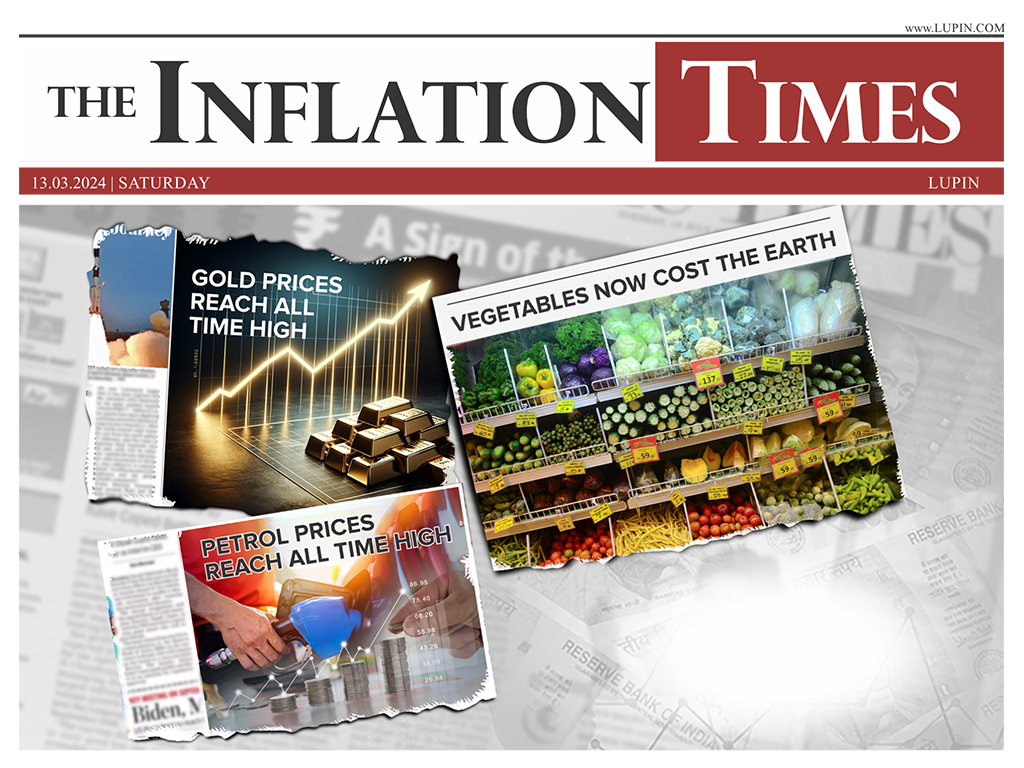
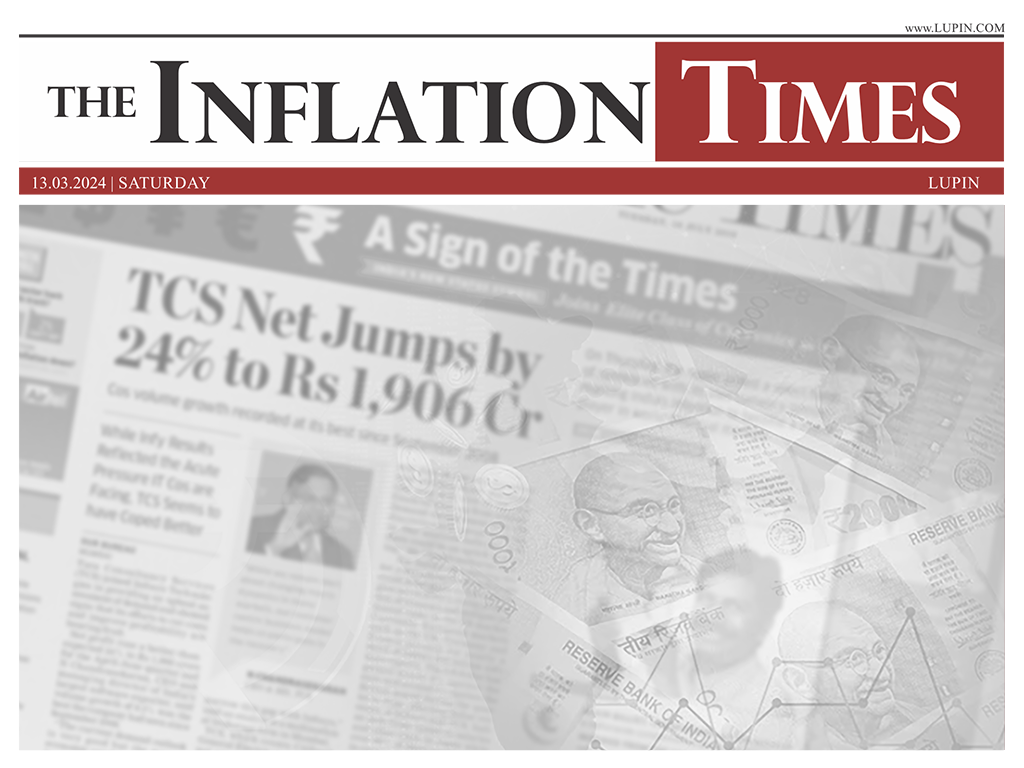
Update

diff --git a/slide1/slide1.css b/slide1/slide1.css
@@ -12,47 +12,47 @@
 
 .s1_2 {
 	position: absolute;
-  left: 632px;
-  top: 583px;
-  width: 278px;
-  height: 148px;
-	animation: zoomIn 0.7s;
-	animation-delay: 0.1s;
+  left: 83px;
+  top: 220px;
+  width: 382px;
+  height: 311px;
+	animation: rotateIn 0.5s;
+	animation-delay: 0.2s;
 	animation-fill-mode: both;
 	z-index: 5;
 }
 
 .s1_3 {
 	position: absolute;
-  left: 620px;
-  top: 619px;
-  width: 301px;
-  height: 72px;
-	animation: zoomIn 0.7s;
-	animation-delay: 0.2s;
+  left: 423px;
+  top: 202px;
+  width: 484px;
+  height: 379px;
+	animation: rotateIn 0.5s;
+	animation-delay: 0.6s;
 	animation-fill-mode: both;
 	z-index: 5;
 }
 
 .s1_4 {
 	position: absolute;
-  left: 534px;
-  top: 586px;
-  width: 181px;
-  height: 67px;
-	animation: fadeInUp 0.7s;
-	animation-delay: 1.4s;
+  left: 99px;
+  top: 481px;
+  width: 399px;
+  height: 263px;
+	animation: rotateIn 0.5s;
+	animation-delay: 1s;
 	animation-fill-mode: both;
 	z-index: 5;
 }
 
 .s1_5 {
 	position: absolute;
-  left: 761px;
-  top: 588px;
-  width: 179px;
-  height: 65px;
-	animation: fadeInUp 0.7s;
+  left: 632px;
+  top: 583px;
+  width: 278px;
+  height: 148px;
+	animation: zoomIn 0.4s;
 	animation-delay: 2s;
 	animation-fill-mode: both;
 	z-index: 5;
@@ -60,161 +60,27 @@
 
 .s1_6 {
 	position: absolute;
-  left: 252px;
-  top: 446px;
-  width: 173px;
-  height: 108px;
-	animation: fadeInDownSmall 0.5s;
-	animation-delay: 1.4s;
-	animation-fill-mode: both;
-	z-index: 5;
-}
-
-.s1_7 {
-	position: absolute;
-  left: 465px;
-  top: 272px;
-  width: 155px;
-  height: 155px;
-	animation: bounceIn 0.3s;
-	animation-delay: 1.8s;
-	animation-fill-mode: both;
-	z-index: 5;
-}
-
-.s1_8 {
-	position: absolute;
-  left: 488px;
-  top: 446px;
-  width: 109px;
-  height: 85px;
-	animation: fadeInDownSmall 0.5s;
-	animation-delay: 2.2s;
-	animation-fill-mode: both;
-	z-index: 5;
-}
-
-.s1_9 {
-	position: absolute;
-  left: 660px;
-  top: 272px;
-  width: 155px;
-  height: 155px;
-	animation: bounceIn 0.3s;
-	animation-delay: 2.6s;
-	animation-fill-mode: both;
-	z-index: 5;
-}
-
-.s1_10 {
-	position: absolute;
-  left: 682px;
-  top: 446px;
-  width: 118px;
-  height: 78px;
-	animation: fadeInDownSmall 0.5s;
-	animation-delay: 3s;
-	animation-fill-mode: both;
-	z-index: 5;
-}
-
-.s1_11 {
-	position: absolute;
-  left: 856px;
-  top: 272px;
-  width: 155px;
-  height: 155px;
-	animation: bounceIn 0.3s;
-	animation-delay: 3.4s;
-	animation-fill-mode: both;
-	z-index: 5;
-}
-
-.s1_12 {
-	position: absolute;
-  left: 871px;
-  top: 446px;
-  width: 125px;
-  height: 109px;
-	animation: fadeInDownSmall 0.5s;
-	animation-delay: 3.8s;
-	animation-fill-mode: both;
-	z-index: 5;
-}
-
-.s1_13 {
-	position: absolute;
-  left: 1051px;
-  top: 272px;
-  width: 155px;
-  height: 155px;
-	animation: bounceIn 0.3s;
-	animation-delay: 4.2s;
-	animation-fill-mode: both;
-	z-index: 5;
-}
-
-.s1_14 {
-	position: absolute;
-  left: 1060px;
-  top: 446px;
-  width: 145px;
-  height: 80px;
-	animation: fadeInDownSmall 0.5s;
-	animation-delay: 4.6s;
+  left: 620px;
+  top: 619px;
+  width: 301px;
+  height: 72px;
+	animation: zoomIn 0.3s;
+	animation-delay: 2.1s;
 	animation-fill-mode: both;
 	z-index: 5;
 }
 
 
-@keyframes flashLong {
-  0%,  100% {
+@keyframes rotateIn {
+  from {
+    -webkit-transform: rotate3d(0, 0, 1, -200deg);
+    transform: rotate3d(0, 0, 1, -200deg) scale(0.3);
     opacity: 0;
   }
 
-  25%, 50%, 75% {
+  to {
+    -webkit-transform: translate3d(0, 0, 0);
+    transform: translate3d(0, 0, 0) scale(1);
     opacity: 1;
-  }
-}
-
-
-@-webkit-keyframes fadeInDownSmall {
-  0% {
-    opacity: 0;
-    -webkit-transform: translate3d(0, -25%, 0);
-    transform: translate3d(0, -25%, 0);
-  }
-
-  100% {
-    opacity: 1;
-    -webkit-transform: none;
-    transform: none;
-  }
-}
-
-
-@keyframes zoomInLight {
-  0% {
-    opacity: 0;
-    -webkit-transform: scale3d(.3, .3, .3);
-    transform: scale3d(.3, .3, .3);
-  }
-
-  50% {
-    opacity: 0.6;
-  }
-}
-
-@keyframes fadeInDownSmall {
-  0% {
-    opacity: 0;
-    -webkit-transform: translate3d(0, -25%, 0);
-    transform: translate3d(0, -25%, 0);
-  }
-
-  100% {
-    opacity: 1;
-    -webkit-transform: none;
-    transform: none;
   }
 }

diff --git a/global.js b/global.js
@@ -303,7 +303,7 @@ currentSlide();
 var selectedContentPath='';
 switch(pg_id){
 	case 1:
-	content='<link rel="stylesheet" type="text/css" href="slide1/slide1.css" media="screen"/><div class="s1_1"><img src="slide1/s1_1.png" width="1024" height="768" alt=""/></div><div class="s1_2"><img src="slide1/s1_2.png"/></div><div class="s1_3"><img src="slide1/s1_3.png"/></div>';
+	content='<link rel="stylesheet" type="text/css" href="slide1/slide1.css" media="screen"/><div class="s1_1"><img src="slide1/s1_1.png" width="1024" height="768" alt=""/></div><div class="s1_2"><img src="slide1/s1_2.png"/></div><div class="s1_3"><img src="slide1/s1_3.png"/></div><div class="s1_4"><img src="slide1/s1_4.png"/></div><div class="s1_5"><img src="slide1/s1_5.png"/></div><div class="s1_6"><img src="slide1/s1_6.png"/></div>';
 	break;
 	case 2:
 	content='<link rel="stylesheet" type="text/css" href="slide2/slide2.css" media="screen"/><div class="s1_1"><img src="slide2/s1_1.png" width="1024" height="768" alt=""/></div><div class="s1_2"><img src="slide2/s1_2.svg"/></div><div class="s1_3"><img src="slide2/s1_3.png"/></div><div class="s1_4"><img src="slide2/s1_4.png"/></div><div class="s1_5"><img src="slide2/s1_5.png"/></div><div class="s1_6"><img src="slide2/s1_6.png"/></div><div class="s1_7"><img src="slide2/s1_7.png"/></div><div class="s1_8"><img src="slide2/s1_8.png"/></div>';

diff --git a/index.html b/index.html
@@ -45,7 +45,7 @@ var selectedContentPath = 'slide1/';
 //  document.getElementById("main_content").innerHTML='<object type="text/html" width="1024px" height="768px" data="'+selectedContentPath+"Dlight1.htm"+'"></object>';
 
 
-$("#main_content").html('<link rel="stylesheet" type="text/css" href="slide1/slide1.css" media="screen"/><div class="s1_1"><img src="slide1/s1_1.png" width="1024" height="768" alt=""/></div><div class="s1_2"><img src="slide1/s1_2.png"/></div><div class="s1_3"><img src="slide1/s1_3.png"/></div>');
+$("#main_content").html('<link rel="stylesheet" type="text/css" href="slide1/slide1.css" media="screen"/><div class="s1_1"><img src="slide1/s1_1.png" width="1024" height="768" alt=""/></div><div class="s1_2"><img src="slide1/s1_2.png"/></div><div class="s1_3"><img src="slide1/s1_3.png"/></div><div class="s1_4"><img src="slide1/s1_4.png"/></div><div class="s1_5"><img src="slide1/s1_5.png"/></div><div class="s1_6"><img src="slide1/s1_6.png"/></div>');
 
 });
 </script> 
